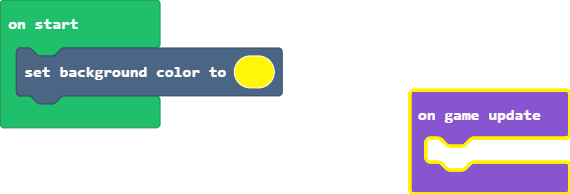
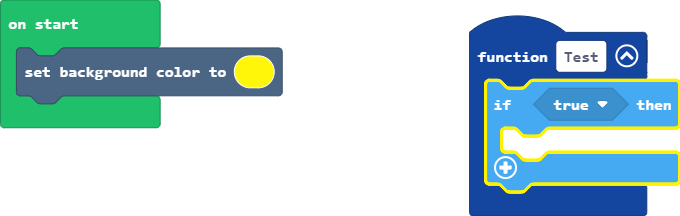
Update main.blocks, main.ts

diff --git a/main.ts b/main.ts
@@ -1,3 +1,8 @@
+function Test () {
+    if (true) {
+    	
+    }
+}
 scene.setBackgroundColor(5)
 game.onUpdate(function () {
 	
